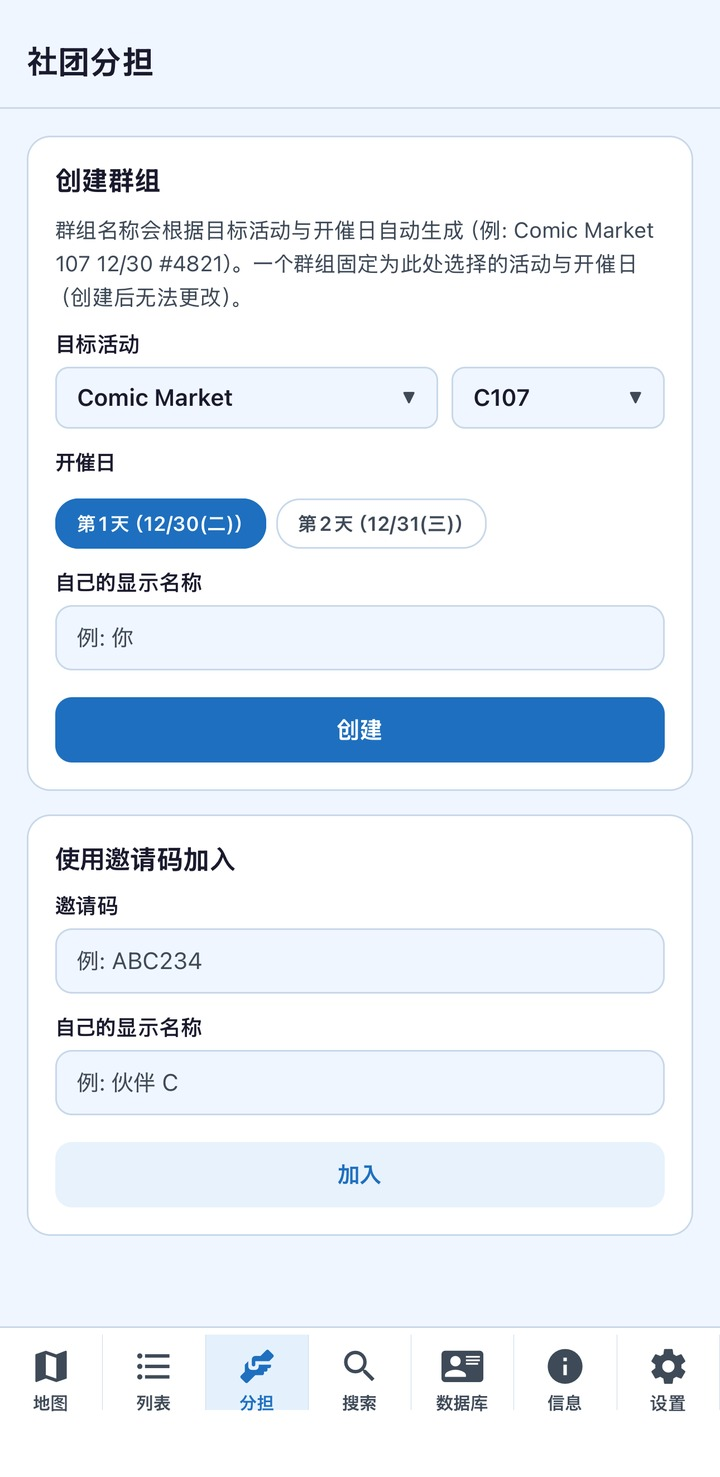
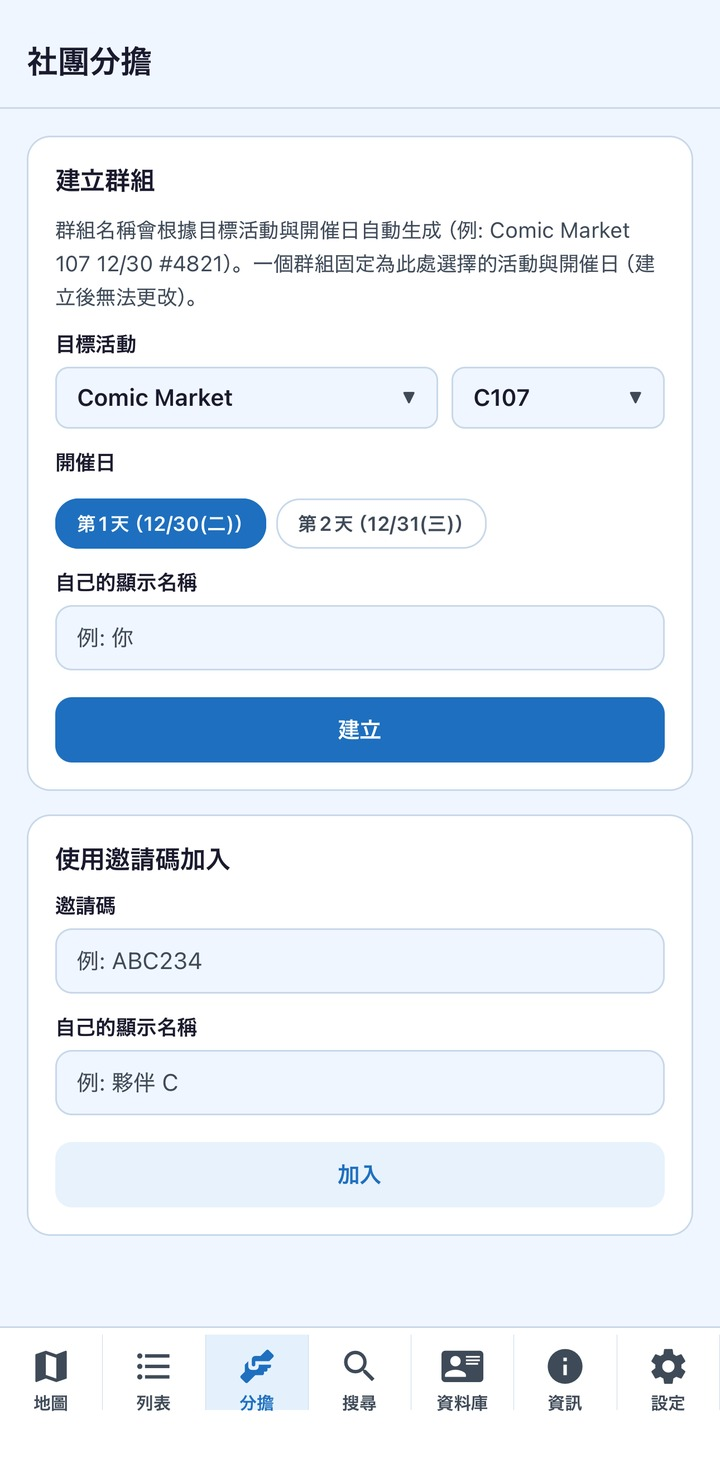
とれはんっ！海外LP: 繁体字/簡体字のスクショ取り違えを是正（ASC提出用フォルダの一部画面が入れ替わっていた）

diff --git a/scripts/torehan-intl/build_shots.py b/scripts/torehan-intl/build_shots.py
@@ -31,10 +31,17 @@ def save_web(img, path, width=720, q=92):
     return r.size
 
 
+# 🔴 2026-10-15 実測: 3.簡体中国語 と 4.繫体中国語 は一部の画面が入れ替わって入っている
+#   （簡体フォルダに繁体字の画面・繁体フォルダに簡体字の画面）。見出し・ボタンの字体で確かめた。
+#   入れ替わっている画面だけ、もう片方のフォルダから取る。攻略情報(9)は正しい側に入っている。
+SWAPPED = {'１全体マップ.png', '2 全体マップ.png', '4 サークル分担作成画面.png'}
+OTHER = {'zh-hans': '4.繫体中国語', 'zh-hant': '3.簡体中国語'}
+
 for d, folder in LANGS.items():
     os.makedirs(os.path.join(OUT, d), exist_ok=True)
     for name, (src, box) in SHOTS.items():
-        im = Image.open(os.path.join(SRC, folder, src)).convert('RGB')
+        f = OTHER[d] if (d in OTHER and src in SWAPPED) else folder
+        im = Image.open(os.path.join(SRC, f, src)).convert('RGB')
         assert im.size == (1290, 2796), (folder, src, im.size)
         size = save_web(im.crop(box), os.path.join(OUT, d, name))
         print(d, name, size)
